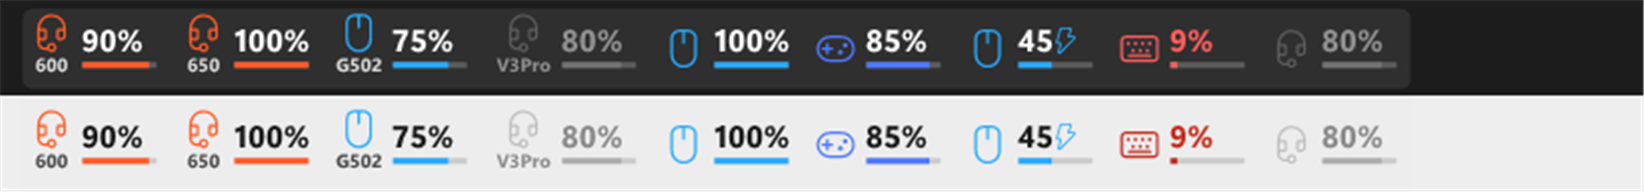
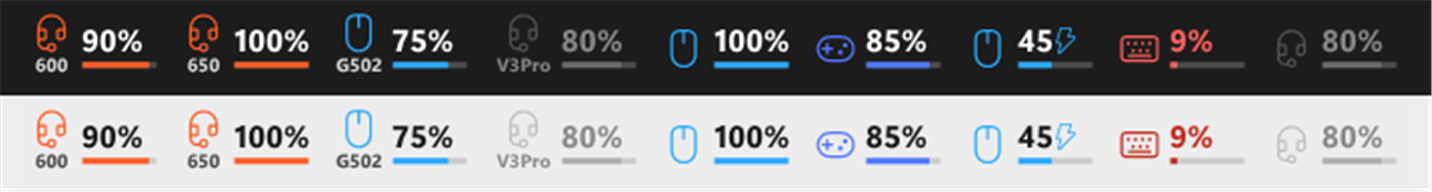
Versão 1.5.2

Changed region(s): [[0.0, 0.0625, 0.9832, 0.4062], [0.0, 0.5625, 0.9832, 0.875]]

diff --git a/BatteryTray.cs b/BatteryTray.cs
@@ -216,6 +216,9 @@ namespace BatteryTray
         static List<Info> enumCache;
         static DateTime enumAt;
 
+        // aparelho ligado/desligado: a próxima leitura monta a lista de novo
+        public static void InvalidateCache() { lock (enumLock) enumCache = null; }
+
         public static List<Info> Enumerate()
         {
             lock (enumLock)
@@ -344,15 +347,19 @@ namespace BatteryTray
             foreach (var col in collections)
             {
                 var devs = new List<byte>();
+                bool direct = false;
                 bool anyKnown = known.Values.Any(k => k.Path == col.Path);
                 if (rescan || !anyKnown)
                 {
                     var shortCol = ShortCollection(all, col);
                     var slots = new byte[] { 1, 2, 3, 4, 5, 6 };
                     var paired = slots.Where(d => !EmptySlot(shortCol, d)).ToList();
-                    devs.AddRange(paired);
-                    // 0xFF é o aparelho ligado direto (cabo, headset); num receptor (alguma posição vazia) é o próprio receptor
-                    if (paired.Count == slots.Length) devs.Add(0xFF);
+                    // Receptor (Unifying, LIGHTSPEED, Bolt): cada posição pareada é um aparelho; a 0xFF é o próprio receptor.
+                    // Aparelho direto (mouse no cabo, receptor próprio de headset): ele responde em qualquer posição,
+                    // então pergunta primeiro pela 0xFF e para no primeiro que responder (antes, o mouse no cabo virava 7).
+                    bool receiver = paired.Count < slots.Length || (col.Product ?? "").IndexOf("receiver", StringComparison.OrdinalIgnoreCase) >= 0;
+                    if (receiver) devs.AddRange(paired);
+                    else { direct = true; devs.Add(0xFF); devs.AddRange(slots); }
                 }
                 else devs.AddRange(known.Values.Where(k => k.Path == col.Path).Select(k => k.Dev));
 
@@ -381,12 +388,51 @@ namespace BatteryTray
                         if (k.Last == null) k.Last = new Reading { Key = key };
                         k.Last.Name = k.Name; k.Last.Kind = k.Kind;
                         ReadBattery(ch, k);
+                        if (direct) break; // aparelho direto: um só
                     }
                 }
             }
             if (rescan) lastScan = DateTime.UtcNow;
             foreach (var k in known.Values.Where(k => !paths.Contains(k.Path))) k.Last.Online = false;
-            return known.Values.Select(k => k.Last).ToList();
+            return Merge(known.Values.Select(k => k.Last));
+        }
+
+        // O mesmo aparelho pode aparecer por dois caminhos: pelo receptor e pelo cabo (carregando).
+        // Vira um item só, com a leitura de quem está ligado (o cabo, de preferência), sob a chave que o aparelho
+        // usou primeiro, para manter a fixação, o nome curto, a cor e a ordem escolhidos para ele.
+        const string CanonicalKey = @"Software\BatteryTray\Logitech";
+
+        static List<Reading> Merge(IEnumerable<Reading> readings)
+        {
+            var res = new List<Reading>();
+            foreach (var grp in readings.GroupBy(r => (r.Name ?? "") + "|" + r.Kind, StringComparer.OrdinalIgnoreCase))
+            {
+                var list = grp.ToList();
+                if (string.IsNullOrEmpty(list[0].Name) || list[0].Name == "Logitech") { res.AddRange(list); continue; } // sem nome: não dá para juntar
+                string canon = Canonical(list[0].Name, list.Select(r => r.Key).ToList());
+                var best = list.OrderByDescending(r => r.Online).ThenByDescending(r => r.Charging).ThenByDescending(r => r.Updated).First();
+                if (best.Key == canon) { res.Add(best); continue; }
+                res.Add(new Reading { Key = canon, Name = best.Name, Kind = best.Kind, Percent = best.Percent, LevelText = best.LevelText,
+                                      Charging = best.Charging, Online = best.Online, Updated = best.Updated });
+            }
+            return res;
+        }
+
+        // chave guardada para o nome do aparelho; na primeira vez, a do receptor (posição 1..6) se houver
+        static string Canonical(string name, List<string> keys)
+        {
+            try
+            {
+                using (var k = Registry.CurrentUser.CreateSubKey(CanonicalKey))
+                {
+                    var saved = k.GetValue(name) as string;
+                    if (saved != null) return saved;
+                    string pick = keys.FirstOrDefault(x => !x.EndsWith("#255")) ?? keys[0];
+                    k.SetValue(name, pick);
+                    return pick;
+                }
+            }
+            catch { return keys[0]; }
         }
 
         // Canal HID++ "curto" (FF00/0001) do mesmo receptor: é por ele que o receptor responde os erros.
@@ -1395,7 +1441,11 @@ namespace BatteryTray
         const string KeyPath = @"Software\BatteryTray\Aparencia";
         public bool Panel = true;                 // painel na barra (padrão) ou um ícone de bandeja por aparelho
         public bool ShowBar = true, ShowPercent = true, ShowLabels = true;
-        public int Size = 1;                      // 0 compacto, 1 normal, 2 grande
+        public int Size = 1;                      // 0 compacto (só ícone e %), 1 normal, 2 grande
+
+        // o compacto não tem barra nem nome curto, mesmo com as opções ligadas
+        public bool BarOn { get { return ShowBar && Size > 0; } }
+        public bool LabelsOn { get { return ShowLabels && Size > 0; } }
         public readonly Dictionary<string, int> Colors = new Dictionary<string, int>();     // ARGB escolhido pelo usuário
         public readonly Dictionary<string, string> Labels = new Dictionary<string, string>(); // nome curto (ex.: "600")
         public readonly List<string> Order = new List<string>();
@@ -1426,7 +1476,9 @@ namespace BatteryTray
                     if (k == null) return a;
                     a.Panel = (k.GetValue("Modo") as string ?? "painel") != "icones";
                     a.ShowBar = Flag(k, "Barra", true); a.ShowPercent = Flag(k, "Porcentagem", true); a.ShowLabels = Flag(k, "NomesCurtos", true);
-                    object sz = k.GetValue("Tamanho"); if (sz is int) a.Size = Math.Max(0, Math.Min(2, (int)sz));
+                    object sz = k.GetValue("Tamanho2"), old = k.GetValue("Tamanho");
+                    if (sz is int) a.Size = Math.Max(0, Math.Min(2, (int)sz));
+                    else if (old is int) a.Size = (int)old <= 0 ? 1 : 2; // até a v1.5.2: compacto virou normal; normal e grande viraram grande
                     var ord = k.GetValue("Ordem") as string[]; if (ord != null) a.Order.AddRange(ord);
                     foreach (var n in k.GetValueNames())
                     {
@@ -1452,7 +1504,7 @@ namespace BatteryTray
                     k.SetValue("Barra", ShowBar ? 1 : 0, RegistryValueKind.DWord);
                     k.SetValue("Porcentagem", ShowPercent ? 1 : 0, RegistryValueKind.DWord);
                     k.SetValue("NomesCurtos", ShowLabels ? 1 : 0, RegistryValueKind.DWord);
-                    k.SetValue("Tamanho", Size, RegistryValueKind.DWord);
+                    k.SetValue("Tamanho2", Size, RegistryValueKind.DWord);
                     k.SetValue("Ordem", Order.ToArray(), RegistryValueKind.MultiString);
                     foreach (var kv in Colors) k.SetValue("Cor:" + kv.Key, kv.Value, RegistryValueKind.DWord);
                     foreach (var kv in Labels) if (kv.Value != "") k.SetValue("Nome:" + kv.Key, kv.Value);
@@ -1470,7 +1522,7 @@ namespace BatteryTray
         // Cada aparelho é uma grade 2x2:   ícone | porcentagem
         //                                  nome  | barra
         // Sem nome, o ícone fica centralizado na altura; sem barra, a porcentagem também.
-        static readonly float[] IconPx = { 16, 19, 23 }, TextPx = { 13, 15.5f, 18.5f }, LabelPx = { 8.5f, 9.5f, 11f };
+        static readonly float[] IconPx = { 16, 16, 19 }, TextPx = { 13, 13, 15.5f }, LabelPx = { 8.5f, 8.5f, 9.5f };
         const float PadL = 6, Gap = 6, PadR = 8, StackGap = 3;
         const string IconFont = "Segoe Fluent Icons";
 
@@ -1494,7 +1546,7 @@ namespace BatteryTray
             using (var b = new SolidBrush(c)) g.FillPath(b, p);
         }
 
-        static bool HasLabel(Appearance a, Item it) { return a.ShowLabels && !string.IsNullOrEmpty(it.Label); }
+        static bool HasLabel(Appearance a, Item it) { return a.LabelsOn && !string.IsNullOrEmpty(it.Label); }
 
         // Posiciona os itens (X, W) e devolve a largura total. A coluna da porcentagem tem sempre a largura de "100%",
         // para o painel não mudar de tamanho quando o valor muda; a do ícone cresce para caber o nome curto.
@@ -1544,7 +1596,7 @@ namespace BatteryTray
                 // linhas da grade: porcentagem em cima e barra embaixo (sem barra, a porcentagem fica no meio)
                 var rb = reference.GetBounds();
                 float colB = rb.Width, textH = rb.Height;
-                float barH = a.ShowBar ? 3 * s : 0, barGap = a.ShowBar ? 5 * s : 0;
+                float barH = a.BarOn ? 3 * s : 0, barGap = a.BarOn ? 5 * s : 0;
                 float textTop = (h - (textH + barGap + barH)) / 2f, barY = textTop + textH + barGap;
 
                 foreach (var it in items)
@@ -1569,7 +1621,7 @@ namespace BatteryTray
                                 FillAt(g, bp, dev, colBX + tb.Width + 2 * s - bb.X, textTop + (textH - bb.Height) / 2f - bb.Y);
                             }
                     }
-                    if (a.ShowBar)
+                    if (a.BarOn)
                     {
                         using (var track = new SolidBrush(Color.FromArgb(light ? 40 : 55, fg))) g.FillRectangle(track, colBX, barY, colB, barH);
                         float pct = r.Percent < 0 ? 0 : Math.Min(100, r.Percent) / 100f;
@@ -1586,7 +1638,7 @@ namespace BatteryTray
                             {
                                 var lb = lp.GetBounds();
                                 float labelTop;
-                                if (a.ShowBar)
+                                if (a.BarOn)
                                 {
                                     labelTop = barY + barH / 2f - lb.Height / 2f;       // nome na linha da barra
                                     iconTop = Math.Max(2 * s, labelTop - StackGap * s - ib.Height);
@@ -1800,6 +1852,7 @@ namespace BatteryTray
         readonly TableLayoutPanel devTable;
         RadioButton rbPanel, rbIcons;
         readonly List<Control> panelOptions = new List<Control>();
+        CheckBox barCheck, labelCheck;
 
         public AppearanceForm(Appearance look, Func<List<Reading>> devices, Action changed)
         {
@@ -1824,13 +1877,13 @@ namespace BatteryTray
             root.Controls.Add(rbPanel); root.Controls.Add(rbIcons);
 
             root.Controls.Add(Header("Painel"));
-            panelOptions.Add(Check(root, "Barra de bateria embaixo da porcentagem", look.ShowBar, v => look.ShowBar = v));
+            panelOptions.Add(barCheck = Check(root, "Barra de bateria embaixo da porcentagem", look.ShowBar, v => look.ShowBar = v));
             panelOptions.Add(Check(root, "Símbolo % depois do número", look.ShowPercent, v => look.ShowPercent = v));
-            panelOptions.Add(Check(root, "Nomes curtos no ícone (ex.: \"600\")", look.ShowLabels, v => look.ShowLabels = v));
+            panelOptions.Add(labelCheck = Check(root, "Nome curto embaixo do ícone (ex.: \"600\")", look.ShowLabels, v => look.ShowLabels = v));
             var sizeRow = new FlowLayoutPanel { AutoSize = true, Margin = new Padding(0, P(4), 0, 0) };
             sizeRow.Controls.Add(new Label { Text = "Tamanho", AutoSize = true, Margin = new Padding(0, P(6), P(8), 0) });
             var sizes = new List<RadioButton>();
-            foreach (var name in new[] { "Compacto", "Normal", "Grande" })
+            foreach (var name in new[] { "Compacto (só ícone e %)", "Normal", "Grande" })
             {
                 int index = sizes.Count;
                 var rb = new RadioButton { Text = name, AutoSize = true, Checked = look.Size == index, Margin = new Padding(0, P(4), P(12), 0) };
@@ -1840,7 +1893,7 @@ namespace BatteryTray
             root.Controls.Add(sizeRow); panelOptions.Add(sizeRow);
 
             root.Controls.Add(Header("Aparelhos"));
-            root.Controls.Add(new Label { Text = "Clique na cor para trocar. O nome curto aparece no canto do ícone, e as setas mudam a ordem.", AutoSize = true, MaximumSize = new Size(P(460), 0), Tag = "muted", Margin = new Padding(0, 0, 0, P(6)) });
+            root.Controls.Add(new Label { Text = "Clique na cor para trocar. O nome curto aparece embaixo do ícone, e as setas mudam a ordem.", AutoSize = true, MaximumSize = new Size(P(460), 0), Tag = "muted", Margin = new Padding(0, 0, 0, P(6)) });
             devTable = new TableLayoutPanel { ColumnCount = 5, AutoSize = true, AutoSizeMode = AutoSizeMode.GrowAndShrink };
             root.Controls.Add(devTable);
             BuildDevices();
@@ -1958,7 +2011,12 @@ namespace BatteryTray
             preview.Invalidate();
         }
 
-        void UpdateEnabled() { foreach (var c in panelOptions) c.Enabled = look.Panel; }
+        // o compacto não tem barra nem nome curto: essas opções ficam desativadas nele
+        void UpdateEnabled()
+        {
+            foreach (var c in panelOptions) c.Enabled = look.Panel;
+            barCheck.Enabled = labelCheck.Enabled = look.Panel && look.Size > 0;
+        }
 
         // cores do tema do Windows (claro/escuro); amostras de cor ("swatch") ficam com a cor do aparelho
         void Theme(Control c)
@@ -2021,7 +2079,7 @@ namespace BatteryTray
         readonly Dictionary<string, Entry> entries = new Dictionary<string, Entry>();
         readonly int taskbarCreated;
         public readonly IntPtr Blank;
-        public Action LeftClick, RightClick, Recreated, NotificationClick;
+        public Action LeftClick, RightClick, Recreated, NotificationClick, DevicesChanged;
 
         public TrayIcons()
         {
@@ -2159,6 +2217,13 @@ namespace BatteryTray
 
         protected override void WndProc(ref Message m)
         {
+            // WM_DEVICECHANGE: o Windows avisa todas as janelas quando um aparelho é ligado ou desligado
+            // (DBT_DEVNODES_CHANGED 0x7, DBT_DEVICEARRIVAL 0x8000, DBT_DEVICEREMOVECOMPLETE 0x8004)
+            if (m.Msg == 0x219)
+            {
+                long w = (long)m.WParam;
+                if ((w == 0x7 || w == 0x8000 || w == 0x8004) && DevicesChanged != null) DevicesChanged();
+            }
             if (m.Msg == taskbarCreated && taskbarCreated != 0)
             {
                 foreach (var e in entries.Values) e.Added = false; // Explorer reiniciou: recria tudo
@@ -2482,7 +2547,7 @@ namespace BatteryTray
     static class Updater
     {
         // Ao publicar uma versão nova, mude este número e crie a tag "v" + número (veja release.ps1).
-        public const string Version = "1.5.1";
+        public const string Version = "1.5.2";
         const string Repo = "HenriqueGomez/BatteryTray";
         const string Agent = "BatteryTray-Updater";
 
@@ -3009,6 +3074,7 @@ namespace BatteryTray
             tray.LeftClick = RefreshNow;
             tray.RightClick = ShowMenu;
             tray.NotificationClick = NotificationClicked;
+            tray.DevicesChanged = OnDevicesChanged;
             tray.Recreated = () => { iconSig.Clear(); Layout(); };
             layoutTimer = new System.Windows.Forms.Timer { Interval = 2000 };
             layoutTimer.Tick += (s, e) => Layout();
@@ -3026,6 +3092,32 @@ namespace BatteryTray
         }
 
         public void RefreshNow() { ThreadPool.QueueUserWorkItem(_ => Tick()); }
+
+        // Aparelho ligado ou desligado (ex.: o cabo de carregar): relê logo depois e de novo alguns segundos mais tarde,
+        // porque um mouse que acabou de entrar no cabo ainda está se apresentando ao Windows.
+        // Os avisos vêm em rajadas; o temporizador junta os de um mesmo momento numa leitura só.
+        System.Windows.Forms.Timer deviceTimer, deviceLaterTimer;
+        void OnDevicesChanged()
+        {
+            if (deviceTimer == null)
+            {
+                deviceTimer = new System.Windows.Forms.Timer { Interval = 1500 };
+                deviceTimer.Tick += (s, e) => { deviceTimer.Stop(); RefreshAfterChange(); deviceLaterTimer.Stop(); deviceLaterTimer.Start(); };
+                deviceLaterTimer = new System.Windows.Forms.Timer { Interval = 6000 };
+                deviceLaterTimer.Tick += (s, e) => { deviceLaterTimer.Stop(); RefreshAfterChange(); };
+            }
+            deviceTimer.Stop(); deviceTimer.Start();
+        }
+
+        void RefreshAfterChange()
+        {
+            Hid.InvalidateCache();
+            ThreadPool.QueueUserWorkItem(_ =>
+            {
+                while (Volatile.Read(ref busy) != 0) Thread.Sleep(100); // espera a leitura em andamento terminar
+                Tick();
+            });
+        }
 
         // "Atualizar agora" no menu: o menu fica aberto, mostra "Atualizando..." e os valores mudam ali mesmo.
         string refreshStatus;
@@ -3270,7 +3362,8 @@ namespace BatteryTray
 
         protected override void ExitThreadCore()
         {
-            poll.Dispose(); layoutTimer.Stop(); watchTimer.Stop(); if (updateTimer != null) updateTimer.Dispose();
+            poll.Dispose(); layoutTimer.Stop(); watchTimer.Stop();
+            if (deviceTimer != null) { deviceTimer.Stop(); deviceLaterTimer.Stop(); } if (updateTimer != null) updateTimer.Dispose();
             foreach (var o in overlays.Values) o.Dispose();
             panel.Dispose();
             if (appearanceForm != null && !appearanceForm.IsDisposed) appearanceForm.Dispose();

diff --git a/README.md b/README.md
@@ -31,7 +31,7 @@ Cores, nomes curtos (como o `600` acima), ordem, tamanho, barra e `%` podem ser 
 O menu abre com o clique direito no painel (ou em qualquer aparelho, no modo de ícones), ou no ícone de bateria do BatteryTray, dentro da setinha `^`:
 
 - **Dispositivos na barra:** escolha quais aparelhos aparecem. Os interruptores não fecham o menu.
-- **Personalizar...:** abre uma janela com prévia ao vivo. Nela você escolhe o estilo (painel ou um ícone por aparelho na bandeja), liga ou desliga a barra, o `%` e os nomes curtos, troca o tamanho e, para cada aparelho, a cor, o nome curto e a ordem.
+- **Personalizar...:** abre uma janela com prévia ao vivo. Nela você escolhe o estilo (painel ou um ícone por aparelho na bandeja), liga ou desliga a barra, o `%` e os nomes curtos, troca o tamanho (o **Compacto** mostra só o ícone e a bateria) e, para cada aparelho, a cor, o nome curto e a ordem.
 - **Atualizar agora:** relê as baterias sem fechar o menu. Isso também acontece sozinho a cada minuto.
 - **Iniciar com o Windows.**
 - **Avisar bateria baixa:** mostra uma notificação do Windows quando um aparelho chega a 15% e outra em 5%. Depois de carregar, volta a avisar. Respeita o "Não incomodar". Vem ligado.

diff --git a/CHANGELOG.md b/CHANGELOG.md
@@ -12,6 +12,16 @@ Como usar (mantenedor):
 
 ## [Não publicado]
 
+## [1.5.2] - 2026-11-19
+
+### Melhorias
+- Tamanhos do painel reorganizados: o novo **Compacto** mostra só o ícone e a bateria (`%` ou raio), sem nome curto e sem barra. O **Normal** é o antigo compacto, e o **Grande** é o antigo normal. Quem atualizar continua com o mesmo visual.
+
+### Correções
+- Mouses e teclados Logitech ligados no cabo, por exemplo para carregar, apareciam repetidos, 7 vezes. Isso acontecia porque eles respondem em todas as posições que o app pergunta. Agora só receptores são perguntados posição por posição.
+- Ao ligar ou desligar um aparelho, por exemplo plugar o cabo para carregar, o painel só mudava na leitura seguinte, que acontece a cada minuto. Agora o app relê na hora (~1,5 s) e de novo alguns segundos depois.
+- O mesmo aparelho Logitech pelo receptor e pelo cabo virava dois itens. Agora é um só, com a leitura de quem está ligado (no cabo, com o raio de carregando), mantendo o nome curto, a cor, a ordem e a fixação escolhidos para ele.
+
 ## [1.5.1] - 2026-11-19
 
 ### Melhorias
